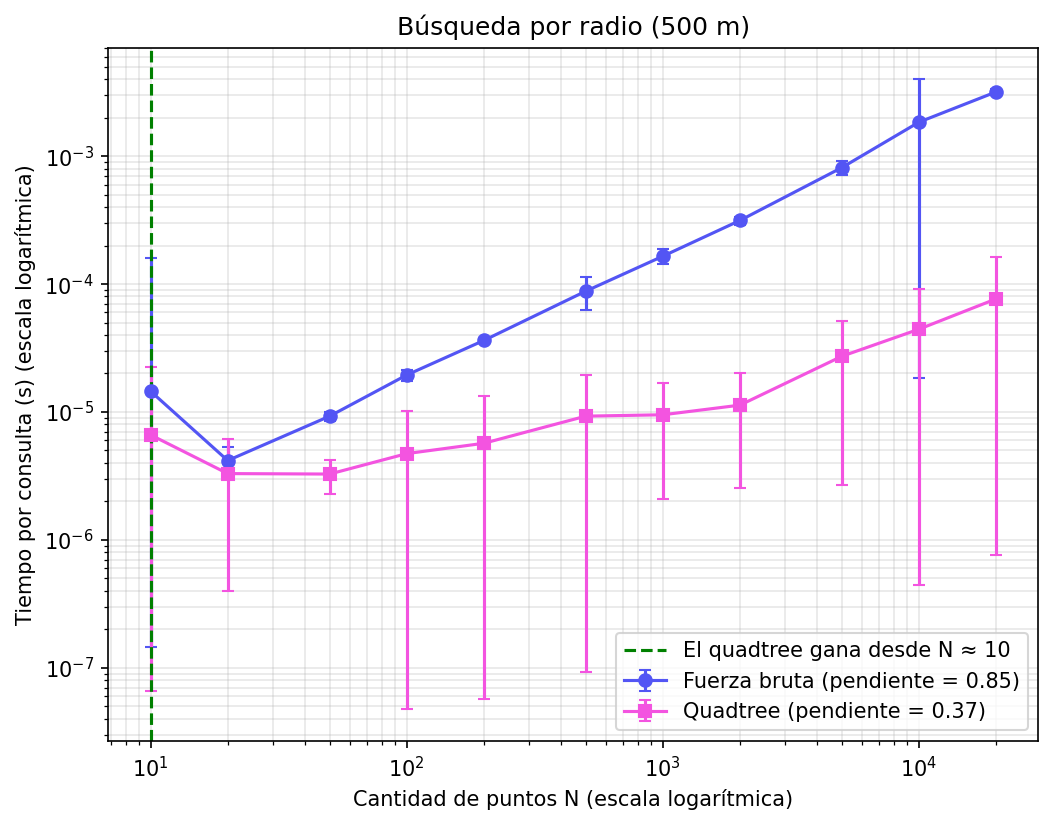
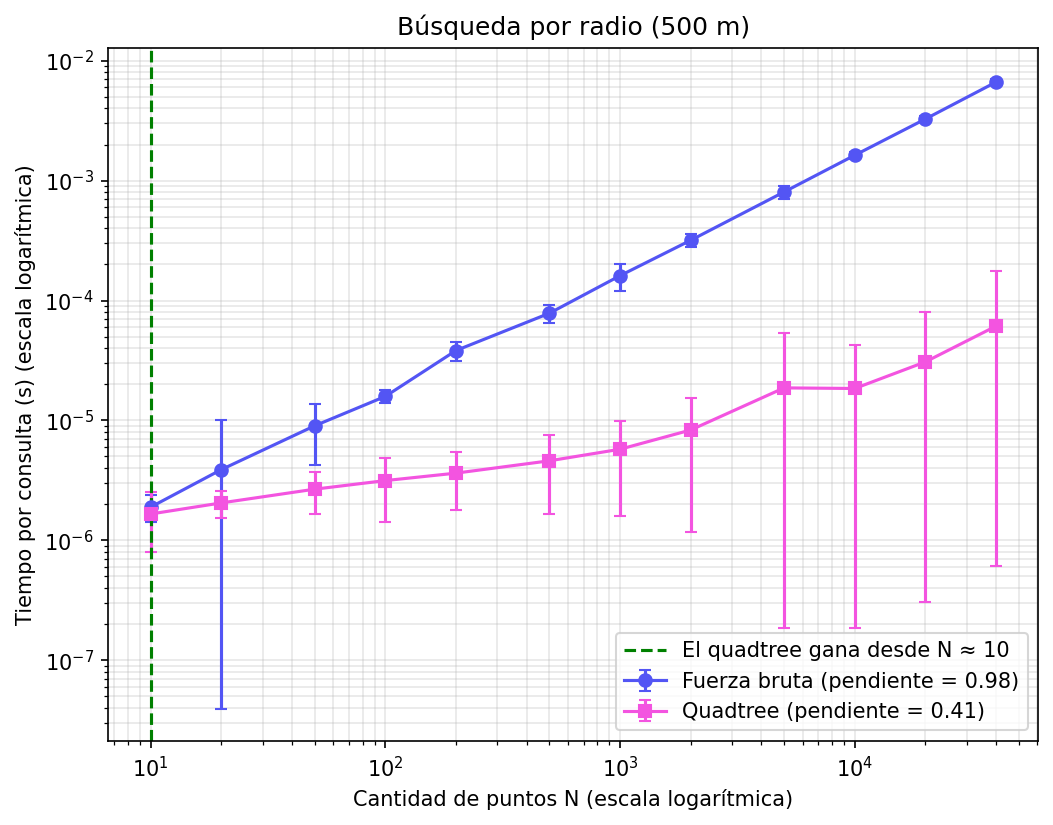
Actaulizar gráficas

diff --git a/Laboratorio 4/analisis.py b/Laboratorio 4/analisis.py
@@ -5,10 +5,10 @@ import numpy as np
 import matplotlib.pyplot as plt
 import Quadtree
 
-TAMANO = 20000                  # ciudad de 20000 x 20000 metros
+TAMANO = 40000                  # ciudad de 20000 x 20000 metros
 RADIO = 500                     # Las búsquedas por radio serán de 500 metros
 DISPERSION = 1500               # metros (desviación estándar de los barrios)
-TAMANOS = [10, 20, 50, 100, 200, 500, 1000, 2000, 5000, 10000, 20000]   # valores de N (número de puntos)
+TAMANOS = [10, 20, 50, 100, 200, 500, 1000, 2000, 5000, 10000, 20000,40000]   # valores de N (número de puntos)
 CONSULTAS = 200                 # consultas por cada N (se promedia)
 REPETICIONES = 50               # Número de repeticiones de cada experimento
 
